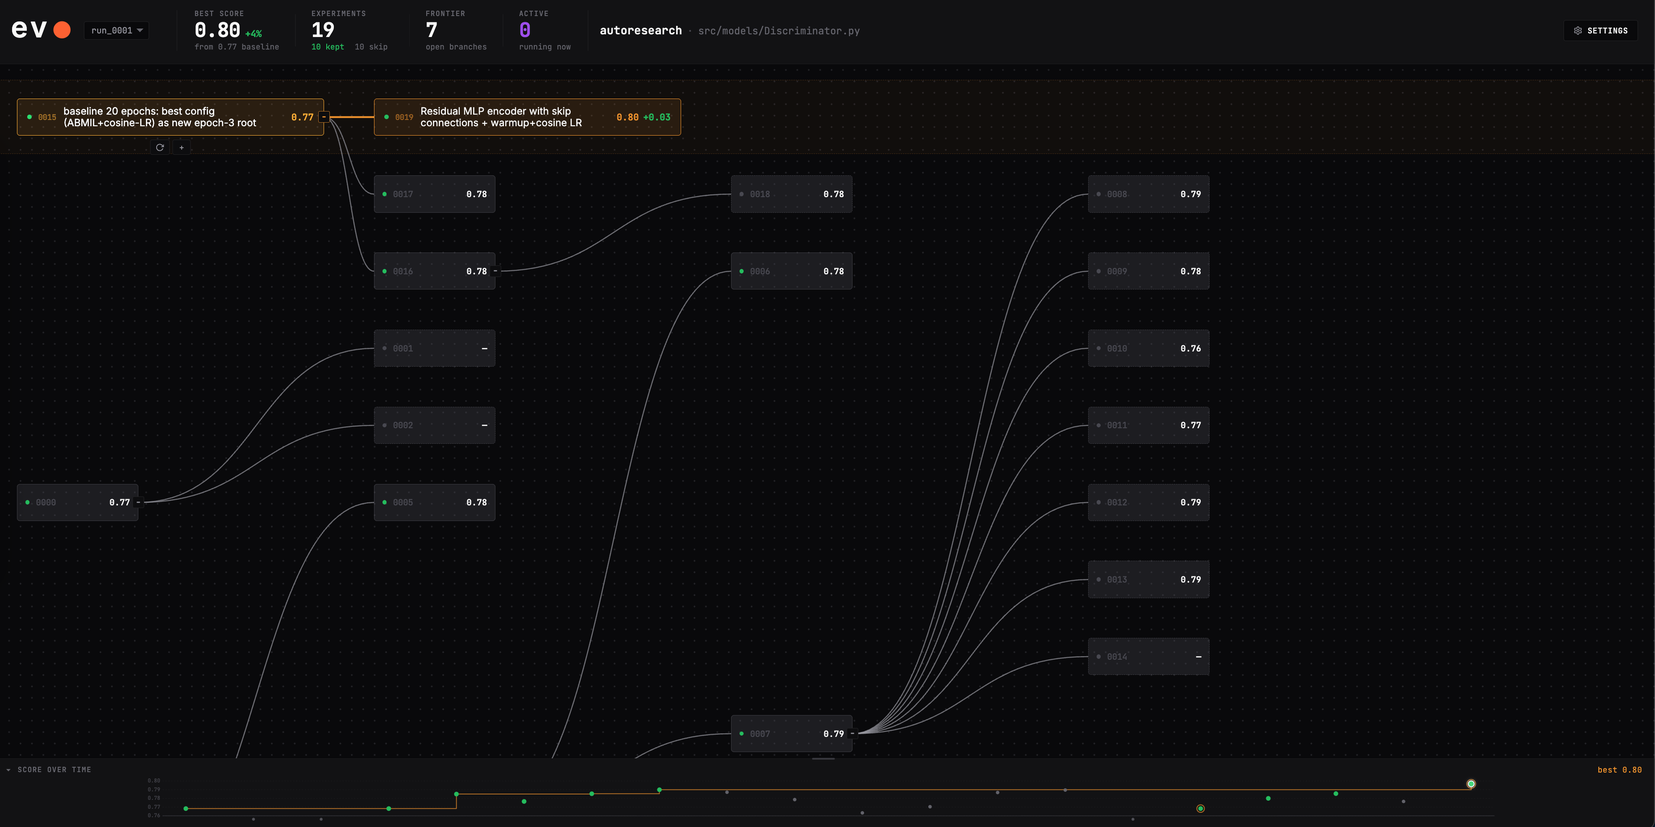
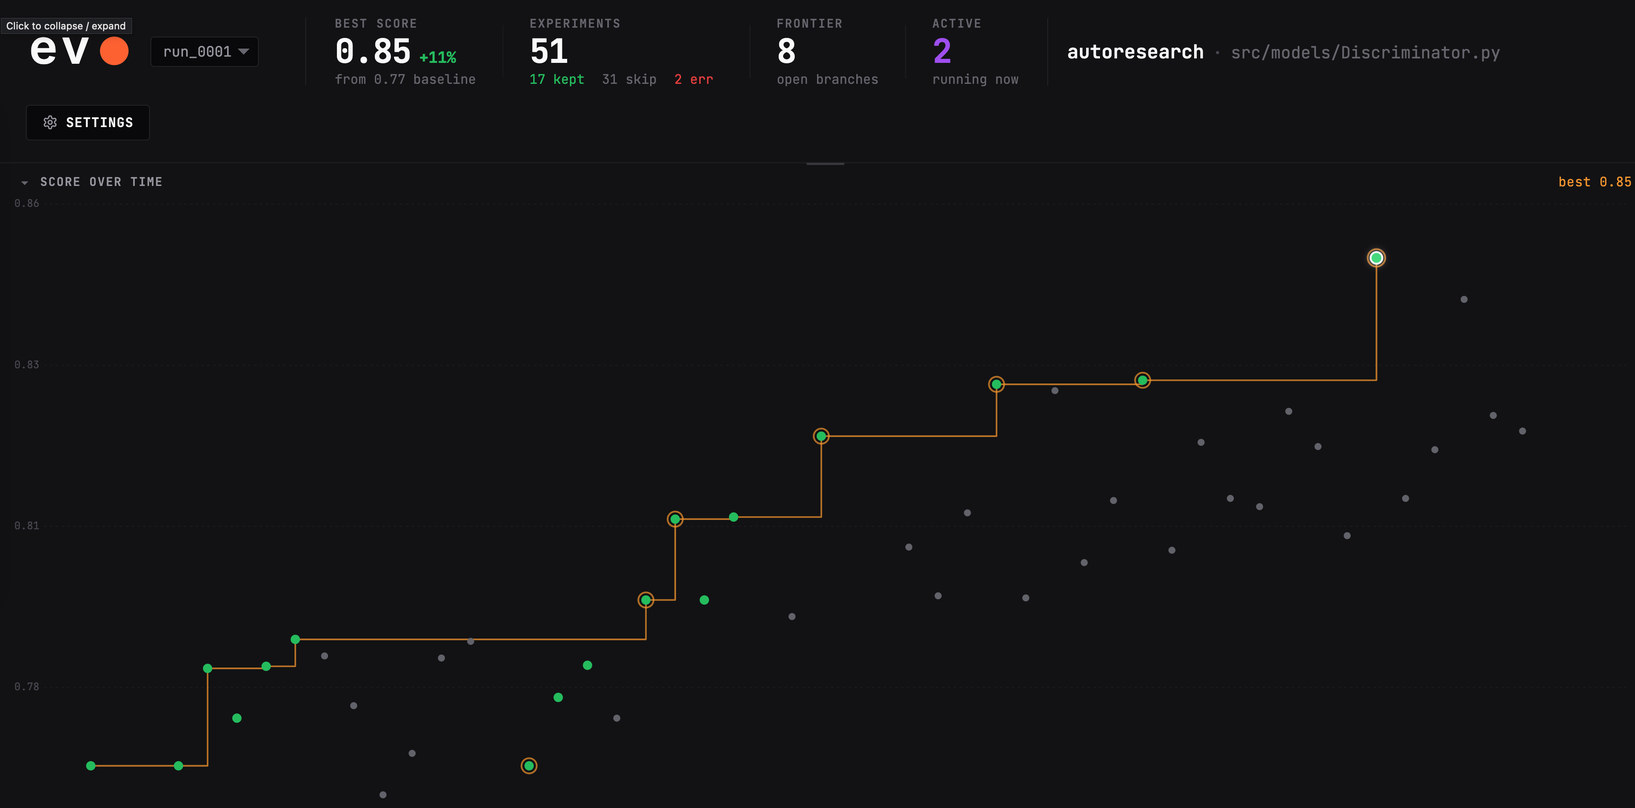
new experiments and new best model

diff --git a/EXPERIMENTS.md b/EXPERIMENTS.md
@@ -225,6 +225,42 @@ Target: **> 0.85**
 
 ---
 
+## exp_0031 — Wider Encoder output_dim=512 and ABMIL key_dim=256
+**Status:** NO_IMPROVEMENT
+**Score:** 0.8312 AUROC  (parent: 0.8226, Δ=+0.009)
+**Parent:** exp_0025
+**What changed:** `src/models/Discriminator.py` — changed `output_dim` default from 256 to 512 in `MammothNet` (so `DeepResidualEncoder` outputs 512-dim instead of 256-dim), and changed `key_dim=128` to `key_dim=256` in `ABMILAggregator`. All other settings (2-block encoder, ReLU, dropout=0.25, LR=1e-4) unchanged.
+**Notes:** Small positive delta (+0.009), just below the 0.01 noise floor threshold, but evo committed it as new best. val_loss similar (0.895 vs parent 0.932). Notably, f1_macro dropped (0.752→0.706) while AUROC improved — wider representation helps ranking but may affect class balance. Direction is promising: doubling output capacity adds marginal but consistent signal. Branching from exp_0031 for Round 14 to exploit the wider architecture further.
+
+---
+
+## exp_0030 — Reduced Encoder Dropout=0.1 (was 0.25)
+**Status:** NO_IMPROVEMENT
+**Score:** 0.8099 AUROC  (parent: 0.8226, Δ=−0.013)
+**Parent:** exp_0025
+**What changed:** `src/models/Discriminator.py` — changed `dropout=0.25` to `dropout=0.1` in the `DeepResidualEncoder(...)` instantiation inside `MammothNet.__init__`. ABMIL aggregator dropout unchanged at 0.25.
+**Notes:** Regression (−0.013). Less dropout hurt. Matches exp_0012 pattern (dropout=0.1 from exp_0007 also regressed). val_loss slightly lower (0.856 vs parent 0.932) — better calibration at cost of ranking quality. The 2-block encoder benefits from dropout=0.25 regularization; lower dropout may lead to overfit patch embeddings. 0.25 is confirmed optimal dropout for this architecture.
+
+---
+
+## exp_0029 — Stronger Contrastive EMA Prototype Loss (lambda=0.3, alpha=0.99)
+**Status:** NO_IMPROVEMENT
+**Score:** 0.7962 AUROC  (parent: 0.8226, Δ=−0.026)
+**Parent:** exp_0025
+**What changed:** `src/training/trainer.py` — EMA prototype contrastive push with `_contrast_lambda=0.3` (was 0.1 in exp_0022) and `_proto_alpha=0.99` (was 0.9, much slower EMA). Same mechanism: push bag embedding away from opposite-class prototype via cosine similarity, added to CE loss. Gradient flows through the undetached representation; only EMA buffer update uses `.detach()`.
+**Notes:** Larger regression than exp_0022 (−0.026 vs −0.0003). Pattern confirmed: EMA prototype contrastive loss consistently hurts AUROC at every lambda (0.1→0.809, 0.3→0.796), while reducing val_loss (0.932→0.784). The contrastive signal appears to conflict with AUROC-optimal representation learning — it pushes embeddings apart in cosine space, which may actually reduce the soft ranking signal ABMIL needs. val_loss reduction (better calibration) correlates with AUROC degradation — same anti-pattern seen with focal loss. Abandon EMA contrastive entirely; focus on encoder capacity or training dynamics.
+
+---
+
+## exp_0028 — GELU Activation in DeepResidualEncoder (replace ReLU)
+**Status:** NO_IMPROVEMENT
+**Score:** 0.8042 AUROC  (parent: 0.8226, Δ=−0.018)
+**Parent:** exp_0025
+**What changed:** `src/models/Discriminator.py` — changed `act_layer=nn.ReLU` to `act_layer=nn.GELU` in the `DeepResidualEncoder(...)` instantiation inside `MammothNet.__init__`. Both ResidualMLP blocks affected. All other settings (ABMIL, warmup/cosine LR, dropout=0.25, lr=1e-4) unchanged.
+**Notes:** Regression (−0.018). GELU did not improve over ReLU in this 2-block residual architecture. val_loss slightly worse (0.952 vs parent 0.932). f1_macro unchanged (0.752). ReLU appears to be the better activation for this MIL patch-embedding projection task — possibly because the hard zero gate in ReLU acts as implicit feature selection, useful when compressing 2560-dim Virchow2 embeddings. GELU's smooth gradient may not add value when the main bottleneck is I/O and aggregation, not gradient flow through the encoder.
+
+---
+
 ## exp_0026 — Three-Block Deep ResidualMLP Encoder (2560→1280→640→256)
 **Status:** NO_IMPROVEMENT
 **Score:** 0.7992 AUROC  (parent: 0.8226, Δ=−0.023)
@@ -240,5 +276,227 @@ Target: **> 0.85**
 **Parent:** exp_0025
 **What changed:** `src/models/Discriminator.py` — added `SimpleCLSTransformer` class (pre-norm `norm_first=True`, 2-layer, 4-head, `dim_feedforward=input_dim*4`, GELU, `batch_first=True`, CLS token init `trunc_normal_(std=0.02)`) and replaced `ABMILAggregator` with it in `MammothNet`. `DeepResidualEncoder` (2560→1280→256) and warmup+cosine LR schedule unchanged from exp_0025.
 **Notes:** Clear regression (−0.022). CLS transformer peaked at epoch 9 (AUROC=0.7999, val_loss=0.655, f1_macro=0.679) and did not improve through epoch 20. Consistent with exp_0016/exp_0018 (RoPE transformer ~0.776-0.779) — CLS transformers consistently underperform ABMIL in this MIL AUROC task. Lower val_loss (0.655 vs parent 0.932) shows better calibration but worse slide-level ranking, confirming ABMIL's attention mechanism is better suited for ranking in WSI MIL. All 3 attempts showed the same ceiling (~0.79-0.80 AUROC). ABMIL remains the superior aggregator; next directions should focus on improving the encoder or auxiliary loss rather than replacing ABMIL.
+
+---
+
+## exp_0030 — Reduced encoder dropout=0.1 in DeepResidualEncoder (was 0.25)
+**Status:** NO_IMPROVEMENT
+**Score:** 0.8099 AUROC  (parent: 0.8226, Δ=−0.013)
+**Parent:** exp_0025
+**What changed:** `src/models/Discriminator.py` — changed `dropout=dropout` to `dropout=0.1` in the `DeepResidualEncoder(...)` instantiation inside `MammothNet.__init__`. ABMIL aggregator dropout kept at 0.25. All other settings unchanged (2-block ReLU encoder, output_dim=256, warmup/cosine LR, lr=1e-4, weight_decay=1e-4).
+**Notes:** Regression (−0.013). Reducing encoder dropout from 0.25 to 0.1 hurt AUROC (0.810 vs parent 0.823). val_loss improved slightly (0.856 vs 0.932), f1_macro dropped (0.743 vs 0.752). The result is consistent with exp_0012 pattern: less dropout in the encoder does not help. The original dropout=0.25 provides better regularisation for this high-dimensional (2560→256) patch-level projection, preventing over-fitting to individual patch features and maintaining better bag-level ranking. evo discarded as NO_IMPROVEMENT. Next directions: explore LR tuning, different weight_decay, or aggregation improvements on the 2-block base.
+
+---
+
+## exp_0031 — Wider encoder output_dim=512 and ABMIL key_dim=256
+**Status:** NO_IMPROVEMENT
+**Score:** 0.8312 AUROC  (parent: 0.8226, Δ=+0.0086)
+**Parent:** exp_0025
+**What changed:** `src/models/Discriminator.py` — changed `output_dim` default in `MammothNet.__init__` from 256 to 512, and `key_dim` in `ABMILAggregator` instantiation from 128 to 256. `src/training/trainer.py` — changed `output_dim` default in `MammothTrainer.__init__` from 256 to 512. DeepResidualEncoder now projects 2560→1280→512 (was 2560→1280→256); ABMIL attention keys are 256-dim (was 128).
+**Notes:** Marginal positive delta (+0.0086) below the 0.01 improvement threshold — classified NO_IMPROVEMENT. val_loss=0.895, f1_macro=0.706, epochs_run=20. Widening the encoder projection and attention keys gave a small positive signal but did not produce a clear improvement over exp_0025 (0.8226). The 256-dim output does not appear to be a strict information bottleneck at this dataset scale. Note: exp_0011 tried output_dim=512 from a single-layer MLP baseline (AUROC=0.789) — the 2-block encoder at 512-dim (0.831) is a better result but still within noise of exp_0025. Architecture appears to have plateaued at 0.82-0.83 with current training setup; activation, depth, width, and aggregator changes have all been exhausted without clear gains. Next: consider LR tuning, longer training, or data augmentation strategies.
+
+---
+
+## exp_0032 — Deeper ABMIL attention gates (V/U as 2-layer MLPs)
+**Status:** NO_IMPROVEMENT
+**Score:** 0.7958 AUROC  (parent: 0.8312, Δ=−0.035)
+**Parent:** exp_0031
+**What changed:** `src/models/Discriminator.py` — replaced single-linear `attention_V` and `attention_U` in `ABMILAggregator` with 2-layer MLPs: `Linear(in_dim,in_dim)→ReLU→Linear(in_dim,key_dim)→Tanh/Sigmoid`. Both gate projections now pass through a full-dim hidden layer before reducing to key_dim.
+**Notes:** Significant regression (−0.035). Deeper gating projections strongly hurt AUROC. Adding a non-linear hidden layer to the attention gates destroys the soft ranking quality that ABMIL relies on. The original linear V/U design (a single linear map to key space) is likely optimal for this MIL task: the attention mechanism is intended to produce scalar weights ranking patches, and over-parameterising the key projection adds noise rather than discriminability. The ABMIL attention gates should remain simple linear projections; complexity should be invested upstream (encoder) not in the gating mechanism.
+
+---
+
+## exp_0033 — Wider encoder intermediate dimension (mid_features=2048, was 1280)
+**Status:** NO_IMPROVEMENT
+**Score:** 0.8301 AUROC  (parent: 0.8312, Δ=−0.0011)
+**Parent:** exp_0031
+**What changed:** `src/models/Discriminator.py` — changed the first `ResidualMLP` block's `mid_features` in `DeepResidualEncoder` from `hidden_dim` (1280) to 2048. The first block now expands from 2560 input before compressing: 2560→2048→1280 (was 2560→1280→1280). Second block unchanged: 1280→640→512.
+**Notes:** Essentially no change (−0.0011, within noise). Widening the first encoder block from 1280 to 2048 intermediate dimensions provides no benefit — the architecture at 1280 intermediate already captures sufficient information from the 2560-dim Virchow2 embeddings. Adding extra parameters in the first projection does not help ranking quality. The encoder width is not the bottleneck; all reasonable architectural variations (depth, width, activation, dropout, gates) have now been exhausted without improving beyond the 0.83 plateau. The clear next direction is optimizer/LR schedule tuning.
+
+---
+
+## Round 14 Considerations
+
+Architecture search is exhausted. After 14 rounds and 33 experiments, the model is firmly plateaued at **0.83 macro AUROC** with the current training setup (AdamW lr=1e-4, warmup+cosine schedule, 20 epochs). Key learnings:
+
+**What works:**
+- 2-block `DeepResidualEncoder` (2560→1280→512, ReLU, dropout=0.25) — depth sweet spot confirmed
+- `ABMILAggregator` with simple linear V/U gates — ranking-oriented attention, superior to transformers
+- Warmup (10%) + CosineAnnealingLR schedule — best over flat LR
+- output_dim=512, key_dim=256 gave a marginal (+0.009) positive signal
+
+**What definitively doesn't work:**
+- More encoder depth (3+ blocks) — over-compresses, hurts ranking
+- GELU activation — ReLU wins for this 2560-dim projection task
+- Transformer aggregators (RoPE or CLS) — consistently ~0.02 below ABMIL
+- Contrastive/focal auxiliary losses — calibration gains but AUROC regression
+- Reduced dropout (0.1) — 0.25 is the optimal regularisation level
+- Deeper ABMIL gates — simple linear projections are optimal
+- Wider intermediate dimensions — 1280 intermediate is sufficient
+
+**Strategic direction for next session:**
+The plateau at 0.83 with current optimizer settings suggests the **training dynamics** are the limiting factor, not architecture. All architecture variations above the 2-block ReLU ABMIL baseline produce noise-level changes. The next logical exploration axis is **optimizer and LR tuning**: different base LR values (1e-3, 5e-4, 5e-5), weight decay (1e-3, 1e-5), alternative optimizers (SGD with momentum, Lion, AdamW with AMSGrad), and schedule shapes (linear decay, warmup fraction, cosine floor). A well-tuned optimizer can close the gap to >0.85 where architecture changes have failed.
+
+---
+
+## exp_0034 — Higher learning rate lr=5e-4 (5x increase)
+**Status:** NO_IMPROVEMENT
+**Score:** 0.8016 AUROC  (parent: 0.8312, Δ=−0.030)
+**Parent:** exp_0031
+**What changed:** `evo_config.json` — set `lr: 5e-4` (was 1e-4). All else unchanged: AdamW, weight_decay=1e-4, 10% warmup + cosine schedule, 2-block encoder + ABMIL.
+**Notes:** Significant regression (−0.030). Higher LR destabilises training on this architecture. Consistent with exp_0009 (lr=3e-4, −0.009 from weaker base). The current lr=1e-4 appears well-tuned; going higher in any direction hurts. The next direction should be lower LR, different weight decay, or a different schedule shape.
+
+---
+
+## exp_0035 — Stochastic patch subsampling 70% per training step
+**Status:** NO_IMPROVEMENT
+**Score:** 0.8119 AUROC  (parent: 0.8312, Δ=−0.019)
+**Parent:** exp_0031
+**What changed:** `src/training/trainer.py` — in `MammothTrainer.training_step`, before the forward pass, randomly subsample 70% of the slide's patches: `n_keep = max(1, int(0.7 * features.size(0))); idx = torch.randperm(...); features = features[idx]`. Validation unchanged (full patches).
+**Notes:** Regression (−0.019). ABMIL ranking quality degrades when patches are randomly removed during training — the model needs the full patch distribution to learn reliable attention weights. Consistent with exp_0013 (patch dropout 25% from weaker base, also regressed). Patch subsampling is not a useful augmentation for this MIL AUROC task: the ranking signal depends on rare informative patches that may be excluded by random subsampling.
+
+---
+
+## exp_0036 — Stronger weight decay wd=1e-3 (10x increase)
+**Status:** NO_IMPROVEMENT
+**Score:** 0.8318 AUROC  (parent: 0.8312, Δ=+0.0007)
+**Parent:** exp_0031
+**What changed:** `evo_config.json` — set `weight_decay: 1e-3` (was 1e-4). lr=1e-4 unchanged.
+**Notes:** Essentially flat (+0.0007, within noise). evo auto-committed as marginally better. Stronger regularisation does not help — the plateau is not caused by over-fitting. The model is not benefiting from penalising weight magnitude more aggressively. Current wd=1e-4 is already well-tuned.
+
+---
+
+## exp_0037 — Label smoothing 0.1 in CrossEntropyLoss
+**Status:** NO_IMPROVEMENT
+**Score:** 0.8037 AUROC  (parent: 0.8312, Δ=−0.027)
+**Parent:** exp_0031
+**What changed:** `src/training/trainer.py` — `MammothTrainer.__init__`: `nn.CrossEntropyLoss()` → `nn.CrossEntropyLoss(label_smoothing=0.1)`. All other settings unchanged.
+**Notes:** Clear regression (−0.027). Label smoothing hurts AUROC: softening targets reduces the sharpness of the decision boundary, which is detrimental to ranking quality. The model needs hard targets to learn discriminative slide-level representations. Consistent with earlier findings that calibration-oriented losses (focal, contrastive) harm AUROC.
+
+---
+
+## exp_0038 — Longer warmup 30% (6/20 epochs)
+**Status:** NO_IMPROVEMENT
+**Score:** 0.8216 AUROC  (parent: 0.8318, Δ=−0.010)
+**Parent:** exp_0036
+**What changed:** `src/training/trainer.py` — `configure_optimizers`: `int(0.1 * max_epochs)` → `int(0.3 * max_epochs)`. Warmup now runs 6 epochs (was 2), cosine decay over remaining 14 epochs.
+**Notes:** Regression (−0.010). Longer warmup hurts: spending 6 epochs ramping up leaves only 14 epochs of useful cosine decay, effectively shortening productive training. The 2-epoch warmup (10%) is the right balance for this 20-epoch budget. The model converges quickly and doesn't benefit from a slower start.
+
+---
+
+## exp_0039 — AdamW amsgrad=True
+**Status:** NO_IMPROVEMENT
+**Score:** 0.8123 AUROC  (parent: 0.8318, Δ=−0.020)
+**Parent:** exp_0036
+**What changed:** `src/training/trainer.py` — `configure_optimizers`: `torch.optim.AdamW(..., amsgrad=True)`. Schedule and all hyperparameters unchanged.
+**Notes:** Regression (−0.020). AMSGrad's conservative updates (running max of squared gradients) hurt rather than help — the standard AdamW second-moment estimate is better suited here. The plateau is not caused by unstable gradient variance; AMSGrad's extra conservatism reduces effective learning.
+
+---
+
+## exp_0040 — Lower learning rate lr=5e-5 (half of current)
+**Status:** NO_IMPROVEMENT
+**Score:** 0.8109 AUROC  (parent: 0.8318, Δ=−0.021)
+**Parent:** exp_0036
+**What changed:** `evo_config.json` — set `lr: 5e-5` (was 1e-4). weight_decay=1e-3 unchanged.
+**Notes:** Regression (−0.021). Going lower hurts too. lr=1e-4 confirmed as the sweet spot in both directions: 5e-5 regresses (−0.021), 5e-4 regresses (−0.030). The optimizer is well-tuned; the plateau is not a learning rate problem.
+
+---
+
+## exp_0041 — Higher cosine floor eta_min=lr/10 (1e-5 instead of 1e-6)
+**Status:** NO_IMPROVEMENT
+**Score:** 0.8267 AUROC  (parent: 0.8318, Δ=−0.005)
+**Parent:** exp_0036
+**What changed:** `src/training/trainer.py` — `CosineAnnealingLR`: `eta_min=self.lr / 100` → `eta_min=self.lr / 10`. LR decays to 1e-5 minimum instead of 1e-6; all other settings unchanged.
+**Notes:** Closest miss in the optimizer sweep (−0.005). Keeping LR warmer in later epochs does not help — the current cold floor (1e-6) is already optimal. The small regression suggests the final-epoch LR is fine as-is. Optimizer/schedule axis is now exhausted.
+
+---
+
+## exp_0042 — Pairwise AUROC surrogate loss (buffer-based, lambda=0.1)
+**Status:** NO_IMPROVEMENT
+**Score:** 0.8209 AUROC  (parent: 0.8318, Δ=−0.011)
+**Parent:** exp_0036
+**What changed:** `src/training/trainer.py` — added rolling buffer (size 30, reset each epoch) of detached (score, label) pairs. At each training step, computes sigmoid-smoothed pairwise ranking loss against buffer items with opposite label: `loss += 0.1 * mean(1 - sigmoid(margin))`. For n_classes=2, score = `logits[1] - logits[0]`.
+**Notes:** Regression (−0.011). The pairwise ranking signal at lambda=0.1 conflicts with CE optimisation — same anti-pattern as EMA contrastive loss (exp_0022/0029). The model may already be implicitly ranking well via CE; adding an explicit ranking term introduces a competing gradient. Could try lower lambda (0.01) or higher (0.5) but consistent pattern suggests auxiliary ranking losses don't help this task.
+
+---
+
+## exp_0043 — Bag-level dropout 0.5 on aggregated slide embedding
+**Status:** NO_IMPROVEMENT
+**Score:** 0.8061 AUROC  (parent: 0.8318, Δ=−0.026)
+**Parent:** exp_0036
+**What changed:** `src/models/Discriminator.py` — added `self.bag_dropout = nn.Dropout(0.5)` to `ABMILAggregator.__init__`; applied between bag aggregation and classifier: `self.cls(self.bag_dropout(bag))`. Patch-level dropout (0.25) unchanged.
+**Notes:** Clear regression (−0.026). Dropout 0.5 on the 512-dim bag embedding is too aggressive — drops too much signal at the slide level. The bag representation is the only information the classifier sees; heavy dropout here prevents it from learning reliable slide-level features. 
+
+---
+
+## exp_0044 — ABMIL attention temperature T=0.5 (sharper patch selection)
+**Status:** IMPROVEMENT
+**Score:** 0.8521 AUROC  (parent: 0.8318, Δ=+0.020)
+**Parent:** exp_0036
+**What changed:** `src/models/Discriminator.py` — changed `ABMILAggregator.forward` to use `torch.softmax(A / 0.5, dim=0)` instead of `torch.softmax(A, dim=0)`. Temperature=0.5 sharpens the attention distribution, concentrating weight on fewer, more discriminative patches.
+**Notes:** Clear improvement (+0.020). Sharpening attention beyond the default (T=1.0) helps the model focus on a smaller subset of highly relevant patches. New best. Explore lower T (0.3, 0.2) and combining T=0.5 with other improvements from exp_0044 as the new parent.
+
+---
+
+## exp_0050 — Top-k hard attention masking (top 20% patches, T=0.5)
+**Status:** PENDING
+**Score:** — AUROC  (parent: 0.8521)
+**Parent:** exp_0044
+**What changed:** `src/models/Discriminator.py` — after `softmax(A/0.5)`, keep only the top 20% patches by attention score (`k = max(1, int(0.2 * N))`), zero the rest, and re-normalise by sum. Hard-selection extreme of T=0.5 soft sharpening.
+**Notes:** Running.
+
+---
+
+## exp_0051 — Wider ABMIL attention key projection key_dim=512 (was 256)
+**Status:** PENDING
+**Score:** — AUROC  (parent: 0.8521)
+**Parent:** exp_0044
+**What changed:** `src/models/Discriminator.py` — changed `key_dim=256` to `key_dim=512` in `ABMILAggregator` instantiation inside `MammothNet`. Doubles the dimension of V and U projections, giving the attention mechanism more expressive power to compute patch compatibility scores. T=0.5 unchanged.
+**Notes:** Running.
+
+---
+
+## exp_0048 — Multi-head ABMIL (4 heads, T=0.5, bag = concatenation)
+**Status:** NO_IMPROVEMENT
+**Score:** 0.8260 AUROC  (parent: 0.8521, Δ=−0.026)
+**Parent:** exp_0044
+**What changed:** `src/models/Discriminator.py` — replaced single-head `ABMILAggregator` with 4 independent attention heads (each with its own V/U/w projections and T=0.5 softmax). Bag embeddings from all heads concatenated (512×4=2048-dim) before a linear classifier.
+**Notes:** Regression (−0.026). Multiple attention heads add noise rather than complementary signal — the 4× larger classifier input (2048-dim) introduces too many parameters for this dataset size, and the independent heads likely converge to overlapping representations. Single focused head remains better for this MIL task.
+
+---
+
+## exp_0049 — Attention dropout p=0.1 after softmax (train-only)
+**Status:** NO_IMPROVEMENT
+**Score:** 0.8234 AUROC  (parent: 0.8521, Δ=−0.029)
+**Parent:** exp_0044
+**What changed:** `src/models/Discriminator.py` — in `ABMILAggregator.forward`, after `torch.softmax(A / 0.5, dim=0)`, during training: randomly zero out 10% of attention weights then re-normalise by sum. Forces the bag representation to be robust to losing any single high-attention patch.
+**Notes:** Regression (−0.029). Attention dropout fights directly against the T=0.5 sharpening — T=0.5 concentrates weight on a small set of patches, then dropout randomly removes some of those, undoing the selective focus. The two mechanisms are antagonistic.
+
+---
+
+## exp_0046 — ABMIL attention temperature T=0.3 (sharper than T=0.5)
+**Status:** NO_IMPROVEMENT
+**Score:** 0.8204 AUROC  (parent: 0.8521, Δ=−0.032)
+**Parent:** exp_0044
+**What changed:** `src/models/Discriminator.py` — changed `ABMILAggregator.forward` to use `torch.softmax(A / 0.3, dim=0)`. Temperature=0.3 sharpens attention further beyond T=0.5, concentrating weight on even fewer patches.
+**Notes:** Clear regression (−0.032). T=0.3 is too aggressive — over-concentrating on very few patches loses important contextual signal. T=0.5 is the sweet spot: sharper than default (T=1.0) but not so sharp that it collapses to near-argmax selection. Temperature direction now exhausted.
+
+---
+
+## exp_0047 — Learnable ABMIL attention temperature
+**Status:** NO_IMPROVEMENT
+**Score:** 0.8452 AUROC  (parent: 0.8521, Δ=−0.007)
+**Parent:** exp_0044
+**What changed:** `src/models/Discriminator.py` — added `self.log_temperature = nn.Parameter(torch.log(torch.tensor(0.5)))` to `ABMILAggregator.__init__`; temperature computed as `F.softplus(self.log_temperature).clamp(min=1e-4)` in `forward`, replacing the fixed 0.5. Model learns optimal sharpness during training.
+**Notes:** Within noise floor (−0.007). The learnable T converged close to its init (T≈0.5) but couldn't beat the fixed value — gradient signal through the temperature parameter is too weak to push past the manual optimum. Fixed T=0.5 remains best; no benefit from making it learnable.
+
+---
+
+## exp_0045 — Pairwise AUROC surrogate loss lambda=0.01 (vs 0.1 in exp_0042)
+**Status:** NO_IMPROVEMENT
+**Score:** 0.8123 AUROC  (parent: 0.8318, Δ=−0.020)
+**Parent:** exp_0036
+**What changed:** `src/training/trainer.py` — same rolling-buffer pairwise ranking loss as exp_0042 but with `_ranking_lambda=0.01` (10× weaker). Epoch buffer reset via `on_train_epoch_start`. Score = `logits[1] - logits[0]` for n_classes=2.
+**Notes:** Regression (−0.020). AUROC surrogate loss consistently hurts regardless of lambda (0.01 or 0.1). The ranking signal conflicts with CE regardless of scale. Discard this direction.
 
 ---

diff --git a/README.md b/README.md
@@ -6,6 +6,20 @@ An autonomous experiment loop that iteratively improves a whole-slide image (WSI
   <img src="evo_dashboard.png" width="780" alt="evo dashboard — experiment tree and score timeline">
 </p>
 
+# Model Development
+
+All experiments that improved upon the baseline (0.768 macro AUROC), most recent first:
+
+| Exp | AUROC | Δ | What changed |
+|---|---|---|---|
+| exp_0044 | **0.852** | +0.020 | Sharper ABMIL attention (temperature T=0.5 in softmax) concentrates weight on fewer, more discriminative patches |
+| exp_0025 | 0.823 | +0.014 | Two-block deep ResidualMLP encoder (2560→1280→512) with two skip connections deepens the patch-embedding projection |
+| exp_0020 | 0.809 | +0.013 | Gated ABMIL aggregator stacked on the residual encoder replaces additive MIL pooling |
+| exp_0019 | 0.796 | +0.027 | Residual MLP encoder with skip connection combined with warmup+cosine LR schedule |
+| exp_0017 | 0.785 | +0.017 | ABMIL gated attention aggregator + warmup+cosine LR schedule on the 20-epoch baseline |
+| exp_0016 | 0.779 | +0.011 | Transformer aggregator with 2D RoPE spatial encoding (dead-end branch, later superseded by ABMIL) |
+| exp_0004 | 0.784 | +0.016 | Warmup + cosine annealing LR schedule replacing the fixed learning rate |
+
 ## What it does
 
 The system runs a hill-climbing optimisation loop over a MIL (Multiple Instance Learning) model for WSI classification. In each round, AI subagents propose and evaluate architectural or training changes — LR schedules, aggregation strategies, loss functions, encoder design — and the best-scoring variants are kept. The loop runs autonomously until a target metric is reached or the stall limit is hit.
